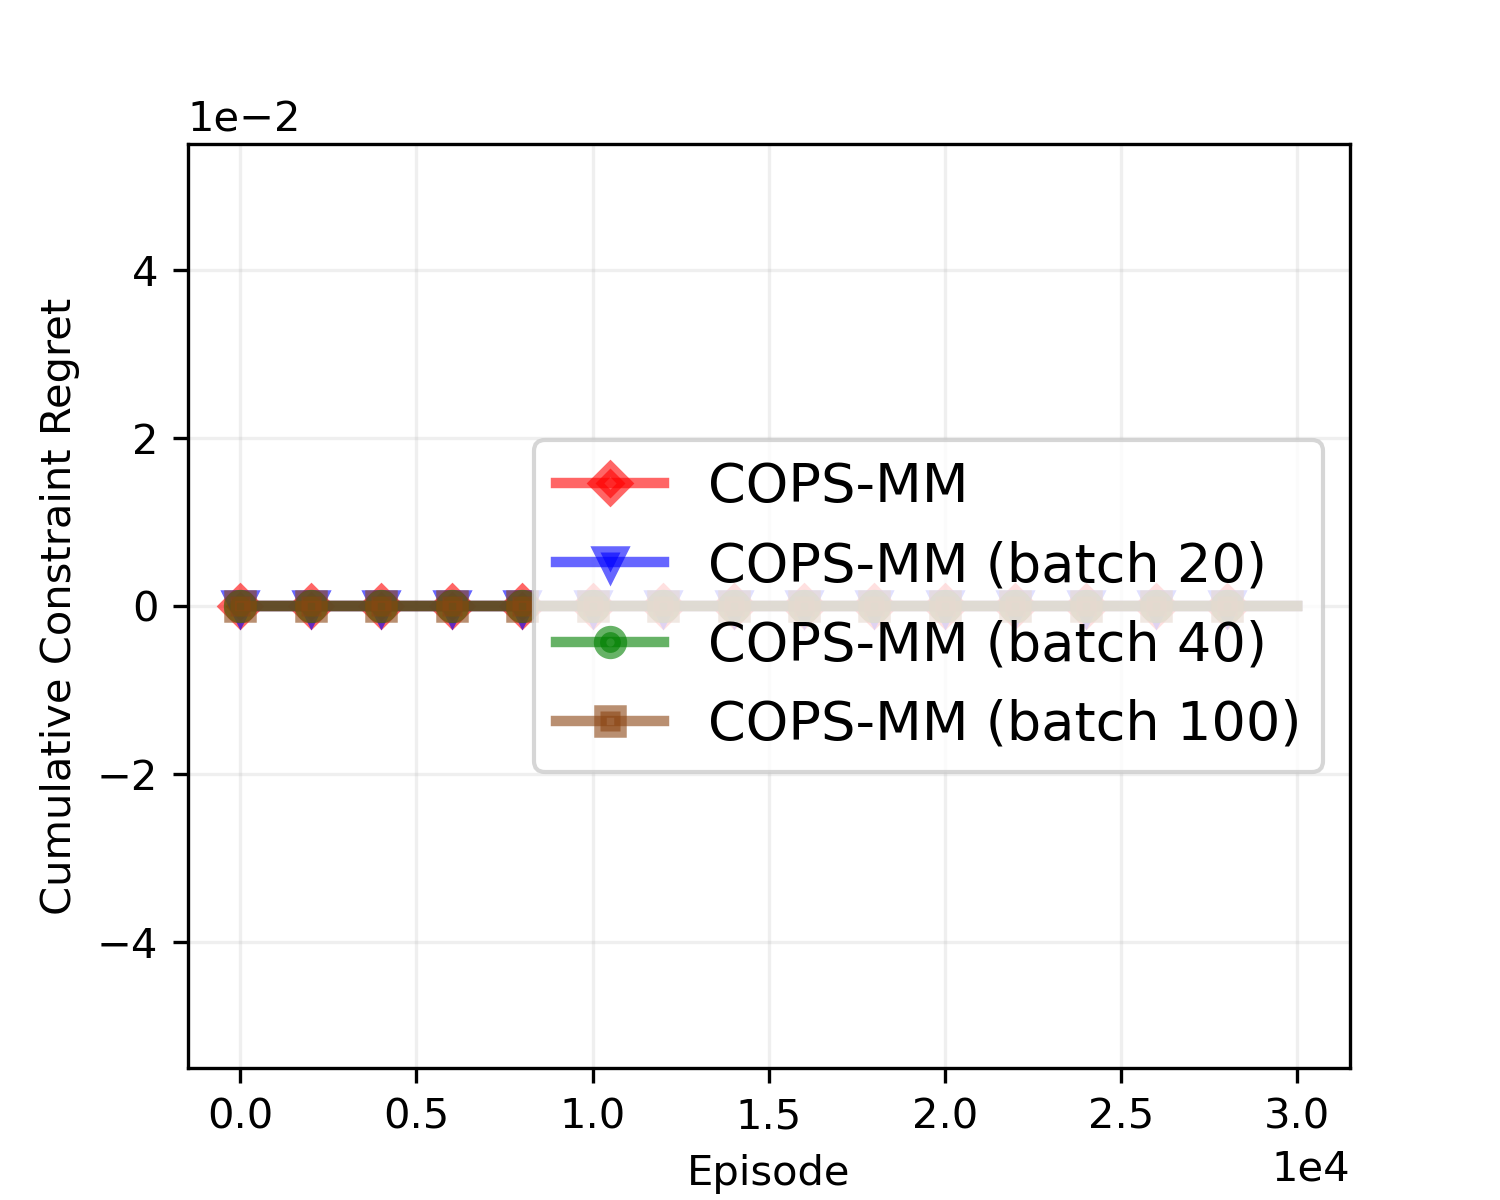
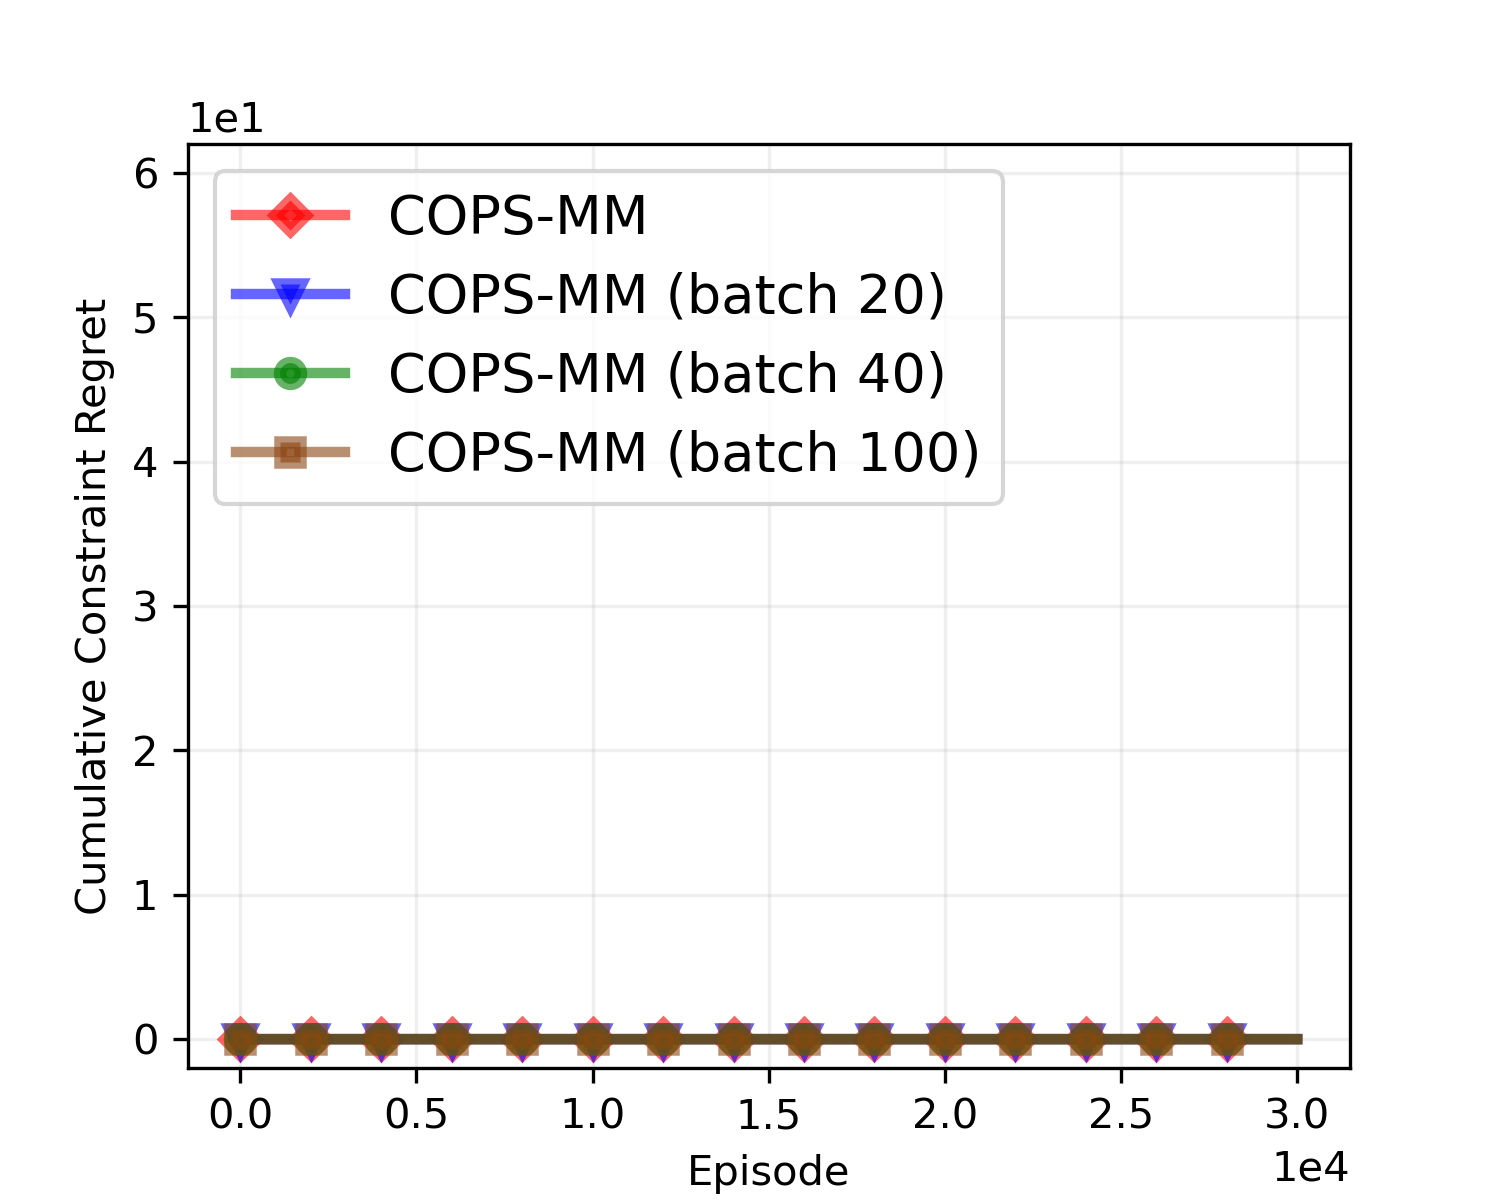
add constraint plot

diff --git a/BPBGClass/Contextual_shuffle/plot_all_separate.py b/BPBGClass/Contextual_shuffle/plot_all_separate.py
@@ -192,9 +192,10 @@ for data, label, clr, mkr, linestyle in zip(data_list, label_list, color_list, m
 
 axs.grid(alpha=0.2)
 axs.ticklabel_format(style='sci', axis='both', scilimits=(0,0))
-axs.legend(loc = 'center right', prop={'size': 13})
+axs.legend(loc = 'upper left', prop={'size': 13})
 axs.set_xlabel('Episode')
 axs.set_ylabel('Cumulative Constraint Regret')
+axs.set_ylim([-2, 6.2e1])
 
 plt.savefig("BPBGClass_cons_regrets_batch.png", dpi=300, facecolor='w', edgecolor='w')
 plt.savefig("BPBGClass_cons_regrets_batch.pdf", dpi=300, facecolor='w', edgecolor='w')
